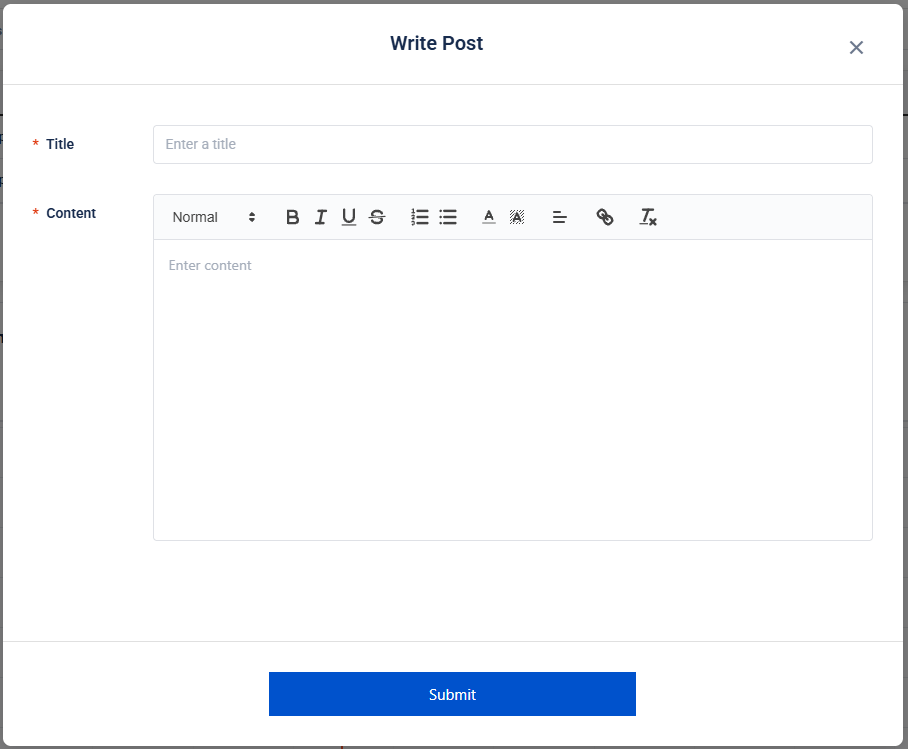
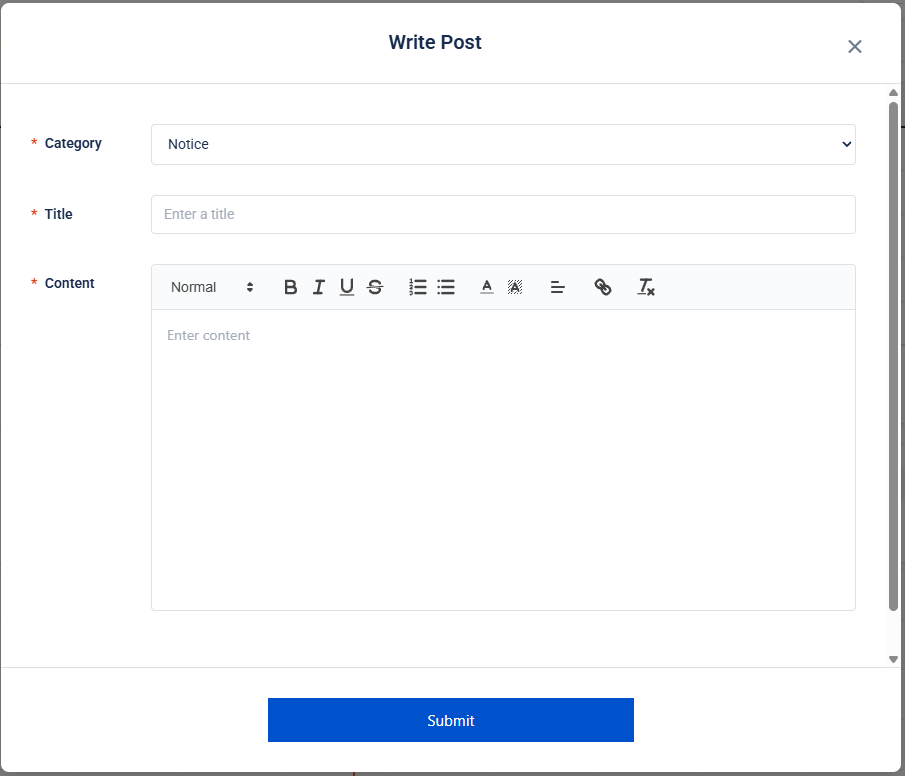
fix: 04-board & 06-test-cases-folders 로직 변경에 따른 가이드 수정

diff --git a/src/pages/guide/06-test-cases-folders.js b/src/pages/guide/06-test-cases-folders.js
@@ -110,7 +110,9 @@ const Folders = () => (
 
     <h3>사용 사례</h3>
     <ul>
-      <li>비슷한 폴더 구조를 빠르게 만들 때</li>
+      <li>비슷한 폴더 구조와 테스트 케이스 세트를 빠르게 만들 때</li>
+      <li>기존 Factor Combination 설정을 새 폴더에 재사용할 때</li>
+      <li>템플릿 폴더를 복제해 새 테스트 사이클을 시작할 때</li>
     </ul>
 
     <h3>절차</h3>
@@ -120,10 +122,25 @@ const Folders = () => (
     </ol>
 
     <h3>복제 범위</h3>
+    <p>폴더를 복사하면 <strong>하위 폴더 트리 전체 + 각 폴더 안의 모든 Test Case + Factor Combination 설정까지 한 번에 복사</strong>됩니다. 각 항목의 상세는 다음과 같습니다:</p>
     <ul>
-      <li>폴더 자체와 <strong>하위 폴더 구조까지만</strong> 복사됩니다</li>
-      <li>폴더 안의 <strong>Test Case는 복사되지 않습니다</strong></li>
+      <li><strong>폴더 구조</strong>: 원본 폴더 + 모든 하위 폴더가 같은 계층 구조로 복사됩니다 (깊이 무제한)</li>
+      <li><strong>폴더 이름</strong>: 루트(복사 대상으로 선택한 폴더)만 <code>_copy</code> 접미사가 붙고, 하위 폴더 이름은 원본 그대로 유지됩니다. 예: <code>Login</code> 복사 → <code>Login_copy/Standard Login/...</code></li>
+      <li><strong>Test Case</strong>: 각 폴더 안의 모든 TC가 새 TC로 복사됩니다
+        <ul>
+          <li>TC Key는 프로젝트 번호의 다음 순번으로 새로 부여됩니다 (예: <code>PROJ-42</code> → <code>PROJ-87</code>)</li>
+          <li>이름, 설명, 테스트 스텝, 사전 조건, 우선순위, Case Type, Owner, Labels, Components, User-defined Fields 모두 그대로 복사됩니다</li>
+          <li><strong>Jira 이슈 링크(Linked Issues)는 복사되지 않습니다</strong> — 새 TC는 빈 상태로 시작 (기존 Jira 이슈 히스토리가 복사본으로 딸려오지 않도록)</li>
+        </ul>
+      </li>
+      <li><strong>Factor Combination 설정</strong>: 폴더에 저장된 Factor 설정(요인, 제약, 시뮬레이션된 조합, Matrix Rows, 메타데이터)이 새 폴더에 함께 복사됩니다</li>
+      <li><strong>Factor TC Assignment</strong>: 각 조합에 지정된 TC 배정 정보도 함께 복사됩니다</li>
+      <li><strong>전체가 원자적</strong>으로 처리됩니다 — 중간 실패 시 이미 복사된 항목도 자동 롤백되어 <strong>반쪽 복사 상태는 남지 않습니다</strong></li>
     </ul>
+
+    <aside className="guide-callout info">
+      <strong>성능 참고</strong>: 수백~수천 개 TC가 있는 폴더도 청크 단위로 분할 처리되어 안정적으로 복사됩니다. 다만 매우 큰 폴더(예: 5,000+ TC)는 완료까지 수십 초가 걸릴 수 있으니 브라우저를 닫지 말고 기다려 주세요.
+    </aside>
 
     <hr />
 
@@ -340,9 +357,11 @@ const FoldersEn = () => (
     <h2>6. Copying a Folder</h2>
     <aside className="guide-callout"><strong>Permission required</strong>: Admin or Team Admin</aside>
 
-    <h3>Use Case</h3>
+    <h3>Use Cases</h3>
     <ul>
-      <li>Quickly create a similar folder structure</li>
+      <li>Quickly create a similar folder structure with its test cases</li>
+      <li>Reuse an existing Factor Combination configuration in a new folder</li>
+      <li>Duplicate a template folder to start a new test cycle</li>
     </ul>
 
     <h3>Steps</h3>
@@ -352,10 +371,25 @@ const FoldersEn = () => (
     </ol>
 
     <h3>What Gets Copied</h3>
+    <p>Copying a folder clones <strong>the entire sub-folder tree + every Test Case inside each folder + the Factor Combination configuration</strong> in one operation. Details:</p>
     <ul>
-      <li>The folder itself and <strong>its sub-folder structure only</strong> is copied</li>
-      <li><strong>Test cases inside the folder are NOT copied</strong></li>
+      <li><strong>Folder structure</strong>: the source folder and all its sub-folders are copied preserving the hierarchy (unlimited depth)</li>
+      <li><strong>Folder names</strong>: only the root (the folder you clicked Copy on) gets the <code>_copy</code> suffix; sub-folders keep their original names. Example: copying <code>Login</code> → <code>Login_copy/Standard Login/...</code></li>
+      <li><strong>Test Cases</strong>: every TC in each folder is copied as a new TC
+        <ul>
+          <li>A new TC Key is issued from the next project-wide number (for example <code>PROJ-42</code> → <code>PROJ-87</code>)</li>
+          <li>Name, description, test steps, preconditions, priority, Case Type, Owner, Labels, Components, User-defined Fields are all copied as-is</li>
+          <li><strong>Linked Jira Issues are NOT copied</strong> — the new TC starts with an empty issue list (so that existing Jira issue history doesn't follow duplicated TCs)</li>
+        </ul>
+      </li>
+      <li><strong>Factor Combination configuration</strong>: factors, constraints, simulated test cases, matrix rows, and metadata saved on the folder are copied to the new folder as well</li>
+      <li><strong>Factor TC Assignments</strong>: the TC assignments per combination are copied together</li>
+      <li>The whole operation is <strong>atomic</strong> — if anything fails mid-way, already-copied items are rolled back so <strong>partial copies never remain</strong></li>
     </ul>
+
+    <aside className="guide-callout info">
+      <strong>Performance note</strong>: folders with hundreds or thousands of TCs are copied in chunks and remain stable. Very large folders (for example 5,000+ TCs) can take tens of seconds to finish — please keep the browser open until it completes.
+    </aside>
 
     <hr />
 

diff --git a/src/pages/guide/04-board.js b/src/pages/guide/04-board.js
@@ -56,7 +56,13 @@ const Board = () => (
     <hr />
 
     <h2>4. 카테고리</h2>
-    <p>게시글에는 카테고리 라벨이 표시됩니다. 현재 버전에서는 작성 화면에서 카테고리를 선택할 수 없으며, 모든 게시글은 <code>Notice</code> 카테고리로 저장됩니다. 목록/상세 화면에서는 제목 앞에 <code>[Notice]</code> 형태로 노출됩니다.</p>
+    <p>게시글에는 카테고리 라벨이 표시됩니다. 작성/수정 화면에서 다음 3가지 중 하나를 선택할 수 있습니다:</p>
+    <ul>
+      <li><code>Notice</code> — 공지 (기본값)</li>
+      <li><code>News</code> — 뉴스</li>
+      <li><code>Etc</code> — 기타</li>
+    </ul>
+    <p>목록/상세 화면에서는 제목 앞에 <code>[카테고리]</code> 형태로 노출됩니다 (예: <code>[Notice] 새 환경 안내</code>).</p>
 
     <hr />
 
@@ -102,6 +108,7 @@ const Board = () => (
       <li>작성 모달이 열림</li>
       <li>입력 항목:
         <ul>
+          <li><strong>카테고리</strong> (필수) — <code>Notice</code> / <code>News</code> / <code>Etc</code> 중 선택 (기본값: <code>Notice</code>)</li>
           <li><strong>제목</strong> (필수)</li>
           <li><strong>내용</strong> (필수) — 리치 텍스트 에디터</li>
         </ul>
@@ -109,7 +116,7 @@ const Board = () => (
       <li><strong>등록하기</strong> 버튼 클릭</li>
     </ol>
 
-    <aside className="guide-callout">작성 화면에는 카테고리 선택, 파일 첨부, <strong>이미지 삽입</strong> 기능이 없습니다. 이미지·파일이 필요하면 T-CAFE <Link to="/support/guide/attachments">Attachments</Link>에 업로드한 뒤 링크를 본문에 붙여주세요.</aside>
+    <aside className="guide-callout">작성 화면에는 파일 첨부, <strong>이미지 삽입</strong> 기능이 없습니다. 이미지·파일이 필요하면 T-CAFE <Link to="/support/guide/attachments">Attachments</Link>에 업로드한 뒤 링크를 본문에 붙여주세요.</aside>
 
     <ScreenshotSlot src={shotWriteBoard} label="게시글 작성 폼" />
 
@@ -300,7 +307,13 @@ const BoardEn = () => (
     <hr />
 
     <h2>4. Category</h2>
-    <p>Each post is displayed with a category label. In the current version, the category cannot be chosen on the write form, and every post is stored with the <code>Notice</code> category. In the list and detail views, the title is prefixed with <code>[Notice]</code>.</p>
+    <p>Each post is displayed with a category label. You can choose one of the following three categories on the write / edit form:</p>
+    <ul>
+      <li><code>Notice</code> — announcements (default)</li>
+      <li><code>News</code> — news</li>
+      <li><code>Etc</code> — other</li>
+    </ul>
+    <p>In the list and detail views, the title is prefixed with <code>[Category]</code> (for example, <code>[Notice] New environment guide</code>).</p>
 
     <hr />
 
@@ -346,6 +359,7 @@ const BoardEn = () => (
       <li>The write modal opens</li>
       <li>Fields:
         <ul>
+          <li><strong>Category</strong> (required) — choose one of <code>Notice</code> / <code>News</code> / <code>Etc</code> (default: <code>Notice</code>)</li>
           <li><strong>Title</strong> (required)</li>
           <li><strong>Content</strong> (required) — rich text editor</li>
         </ul>
@@ -353,7 +367,7 @@ const BoardEn = () => (
       <li>Click the <strong>Submit</strong> button</li>
     </ol>
 
-    <aside className="guide-callout">The write form does not support category selection, file attachments, or <strong>image insertion</strong>. If you need images or files, upload them to T-CAFE <Link to="/support/guide/attachments">Attachments</Link> and paste the link into the body.</aside>
+    <aside className="guide-callout">The write form does not support file attachments or <strong>image insertion</strong>. If you need images or files, upload them to T-CAFE <Link to="/support/guide/attachments">Attachments</Link> and paste the link into the body.</aside>
 
     <ScreenshotSlot src={shotWriteBoard} label="Post write form" />
 
